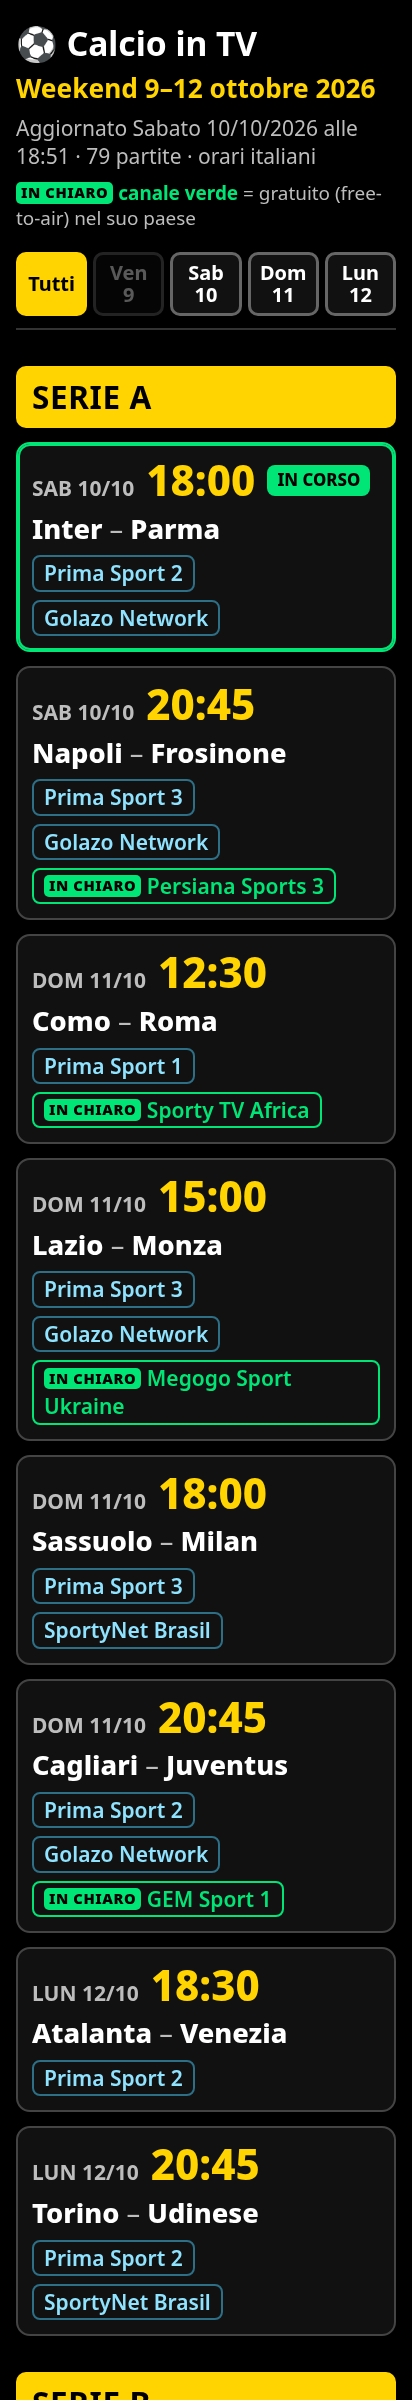
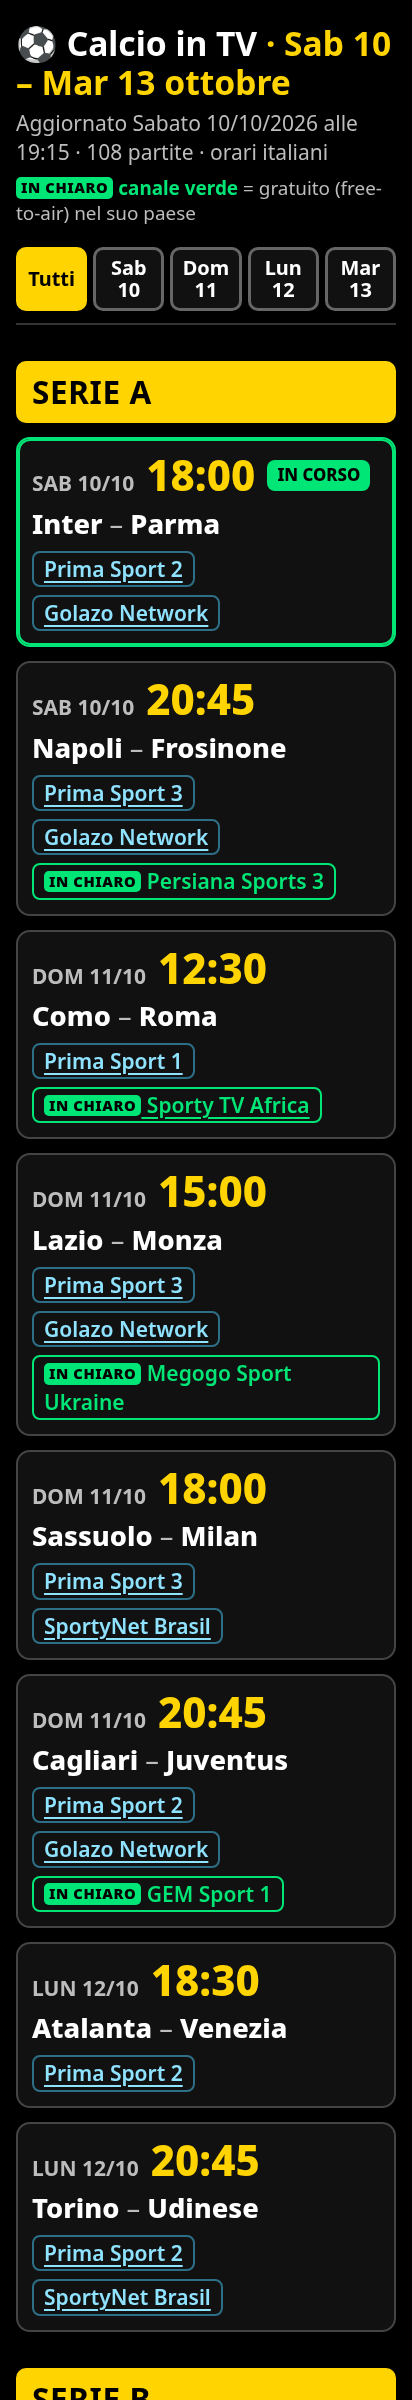
Due viste: per campionato / in ordine di orario (scelta ricordata)

Changed region(s): [[0.0291, 0.0, 0.9612, 1.0]]

diff --git a/scraper/palinsesto.py b/scraper/palinsesto.py
@@ -301,25 +301,37 @@ def genera_html(primo, ora, gruppi, falliti, senza, dove=None):
     n_partite = sum(len(g["partite"]) for g in gruppi)
 
     sezioni, usati = [], set()
-    for g in gruppi:
-        schede = []
-        for e in g["partite"]:
-            q = e["quando"]
-            notte = q.hour < 6
-            squadre = f'<span class="sq">{esc(e["casa"])}</span>'
-            if e["ospite"]:
-                squadre += f' <span class="vs">–</span> <span class="sq">{esc(e["ospite"])}</span>'
-            canali = "".join(badge(c, dove, usati) for c in e["canali"])
-            schede.append(
-                f'<li class="partita" data-ts="{e["ts"]}" data-giorno="{q:%Y-%m-%d}">'
+
+    def scheda(e, comp=None):
+        q = e["quando"]
+        notte = q.hour < 6
+        squadre = f'<span class="sq">{esc(e["casa"])}</span>'
+        if e["ospite"]:
+            squadre += f' <span class="vs">–</span> <span class="sq">{esc(e["ospite"])}</span>'
+        if comp:
+            squadre = f'<span class="comp-tag">{esc(comp)}</span>' + squadre
+        canali = "".join(badge(c, dove, usati) for c in e["canali"])
+        return (f'<li class="partita" data-ts="{e["ts"]}" data-giorno="{q:%Y-%m-%d}">'
                 f'<div class="quando"><span class="giorno">{GIORNI[q.weekday()]} {q:%d/%m}</span>'
                 f'<span class="ora">{q:%H:%M}</span>'
                 + (f'<span class="notte">notte tra {GIORNI[(q.weekday() - 1) % 7].lower()} e {GIORNI[q.weekday()].lower()}</span>' if notte else '') +
                 '<span class="stato" aria-live="polite"></span></div>'
                 f'<div class="squadre">{squadre}</div>'
                 f'<ul class="canali" aria-label="Canali">{canali}</ul></li>')
+
+    # vista "per campionato"
+    for g in gruppi:
         sezioni.append(f'<section class="comp"><h2>{esc(g["nome"])}</h2>'
-                       f'<ol class="partite">{"".join(schede)}</ol></section>')
+                       f'<ol class="partite">{"".join(scheda(e) for e in g["partite"])}</ol></section>')
+    # vista "in ordine di orario": tutte le partite per ora d'inizio, con separatori per giorno
+    tutte = sorted(((e, g["nome"]) for g in gruppi for e in g["partite"]), key=lambda x: (x[0]["ts"], x[1], x[0]["casa"]))
+    orario = []
+    for d in giorni:
+        del_giorno = [x for x in tutte if x[0]["quando"].date() == d]
+        if del_giorno:
+            orario.append(f'<section class="giorno-sez" data-giorno="{d:%Y-%m-%d}">'
+                          f'<h2 class="giorno-h">{GIORNI_LUNGHI[d.weekday()].upper()} {d.day} {MESI[d.month - 1].upper()}</h2>'
+                          f'<ol class="partite">{"".join(scheda(e, c) for e, c in del_giorno)}</ol></section>')
     if not gruppi:
         sezioni.append('<p class="vuoto">Nessuna partita trovata in questi giorni.</p>')
 
@@ -343,7 +355,7 @@ def genera_html(primo, ora, gruppi, falliti, senza, dove=None):
 
     return TEMPLATE.format(
         periodo=esc(periodo(primo)), aggiornato=esc(aggiornato), n=n_partite,
-        bottoni=bottoni, sezioni="\n".join(sezioni), avvisi=avvisi, note=note,
+        bottoni=bottoni, sezioni="\n".join(sezioni), orario="\n".join(orario), avvisi=avvisi, note=note,
         dove=sezione_dove(dove, usati))
 
 
@@ -423,6 +435,16 @@ TEMPLATE = """<!doctype html>
                background:#111; color:#fff; border:3px solid #666; cursor:pointer; flex:1 1 auto; }}
   nav.filtri button[aria-pressed="true"] {{ background:var(--giallo); color:#000; border-color:var(--giallo); }}
   nav.filtri button:disabled {{ opacity:.35; cursor:default; }}
+  nav.viste {{ max-width:1000px; margin:4px auto 0; display:grid; grid-template-columns:1fr 1fr; gap:10px; }}
+  nav.viste button {{ font:inherit; font-size:1.05rem; font-weight:900; letter-spacing:.02em; min-height:72px; padding:8px 10px;
+               border-radius:14px; background:#111; color:#fff; border:3px solid #888; cursor:pointer; line-height:1.15; }}
+  nav.viste button[aria-pressed="true"] {{ background:#fff; color:#000; border-color:#fff; box-shadow:0 0 0 3px var(--giallo); }}
+  nav.viste button[aria-pressed="true"]::before {{ content:"✓ "; }}
+  nav.viste button:focus-visible {{ outline:4px solid var(--azzurro); outline-offset:3px; }}
+  h2.giorno-h {{ background:#fff; color:#000; }}
+  section.giorno-sez {{ margin-top:36px; }}
+  .comp-tag {{ display:block; width:max-content; max-width:100%; background:var(--giallo); color:#000; font-size:.8rem; font-weight:900;
+               padding:2px 10px; border-radius:7px; margin-bottom:6px; letter-spacing:.02em; overflow-wrap:anywhere; }}
   nav.filtri button:focus-visible {{ outline:4px solid var(--azzurro); outline-offset:2px; }}
   section.comp {{ margin-top:36px; }}
   h2 {{ font-size:1.5rem; color:#000; background:var(--giallo); padding:10px 16px; border-radius:10px; margin:0 0 14px;
@@ -488,9 +510,18 @@ TEMPLATE = """<!doctype html>
   <p class="agg">Aggiornato {aggiornato} · {n} partite · orari italiani</p>
   <p class="legenda"><span class="tag">IN CHIARO</span> <span style="color:var(--verde);font-weight:700">canale verde</span> = gratuito (free-to-air) nel suo paese</p>
 </header>
+<nav class="viste" aria-label="Come ordinare le partite">
+  <button type="button" data-vista="campionato" aria-pressed="true">PER CAMPIONATO</button>
+  <button type="button" data-vista="orario" aria-pressed="false">IN ORDINE DI ORARIO</button>
+</nav>
 <nav class="filtri" aria-label="Filtra per giorno">{bottoni}</nav>
 <main>
+<div id="vista-campionato" class="vista">
 {sezioni}
+</div>
+<div id="vista-orario" class="vista" hidden>
+{orario}
+</div>
 {avvisi}
 {dove}
 </main>
@@ -507,12 +538,26 @@ TEMPLATE = """<!doctype html>
   function filtra(f) {{
     bottoni.forEach(function (b) {{ b.setAttribute('aria-pressed', b.dataset.filtro === f ? 'true' : 'false'); }});
     partite.forEach(function (p) {{ p.hidden = !(f === 'tutti' || p.dataset.giorno === f); }});
-    [].forEach.call(document.querySelectorAll('section.comp'), function (s) {{
+    [].forEach.call(document.querySelectorAll('section.comp, section.giorno-sez'), function (s) {{
       s.hidden = !s.querySelector('li.partita:not([hidden])');
     }});
     try {{ sessionStorage.setItem('filtro', f); }} catch (e) {{}}
   }}
   bottoni.forEach(function (b) {{ b.addEventListener('click', function () {{ filtra(b.dataset.filtro); }}); }});
+  // due viste: per campionato / in ordine di orario (scelta ricordata nel browser)
+  var tastiVista = [].slice.call(document.querySelectorAll('nav.viste button'));
+  function vista(v) {{
+    if (v !== 'orario') v = 'campionato';
+    tastiVista.forEach(function (b) {{ b.setAttribute('aria-pressed', b.dataset.vista === v ? 'true' : 'false'); }});
+    document.getElementById('vista-campionato').hidden = v !== 'campionato';
+    document.getElementById('vista-orario').hidden = v !== 'orario';
+    try {{ localStorage.setItem('vista', v); }} catch (e) {{}}
+  }}
+  tastiVista.forEach(function (b) {{ b.addEventListener('click', function () {{ vista(b.dataset.vista); }}); }});
+  var daUrl = /[?&]vista=(orario|campionato)/.exec(location.search);  // es. ...?vista=orario
+  var scelta = daUrl ? daUrl[1] : null;
+  if (!scelta) {{ try {{ scelta = localStorage.getItem('vista'); }} catch (e) {{}} }}
+  vista(scelta);
   // stato: in corso (fino a 2 ore dall'inizio), tra poco (entro 1 ora), già giocata
   function stato() {{
     var ora = Date.now() / 1000;

diff --git a/tests/test_logica.py b/tests/test_logica.py
@@ -74,7 +74,7 @@ def test_fixture():
     psg = [e for g in gruppi for e in g["partite"] if "PSG" in e["titolo"]][0]
     assert [c["nome"] for c in psg["canali"]] == ["TV5 Monde"]
     html = p.genera_html(v, dt.datetime(2026, 10, 9, 12, 47, tzinfo=p.ROMA), gruppi, ["Canale X (HTTP 404)"], [])
-    assert "non scaricati" in html and "Canale X" in html and html.count('class="partita"') == 64
+    assert "non scaricati" in html and "Canale X" in html and html.count('class="partita"') == 2 * 64
     assert not any("dazn" in c["nome"].lower() for g in gruppi for e in g["partite"] for c in e["canali"])
     return n
 
@@ -215,7 +215,14 @@ def test_unione():
     assert nomi.index("SERIE A") == 0 and nomi.count("PREMIER LEAGUE") == 1 and nomi.count("SERIE A") == 1
     assert not any("dazn" in c["nome"].lower() for e in tutte.values() for c in e["canali"])
     html = p.genera_html(v, dt.datetime(2026, 10, 10, 18, 30, tzinfo=p.ROMA), gruppi, falliti, senza)
-    assert html.count('class="partita"') == st["totale"] and html.count('<li class="fta">') > 50
+    assert html.count('class="partita"') == 2 * st["totale"] and html.count('<li class="fta">') > 50
+    # vista "in ordine di orario": stesse partite, ordinate per ora, con separatori per giorno ed etichetta campionato
+    import re as _re
+    orario = html[html.index('id="vista-orario"'):html.index('</main>')]
+    ts = [int(x) for x in _re.findall(r'data-ts="(\d+)"', orario)]
+    assert len(ts) == st["totale"] and ts == sorted(ts)
+    assert _re.findall(r'class="giorno-h">([^<]+)', orario) == ["VENERDÌ 9 OTTOBRE", "SABATO 10 OTTOBRE", "DOMENICA 11 OTTOBRE", "LUNEDÌ 12 OTTOBRE"]
+    assert orario.count('class="comp-tag"') == st["totale"] and 'data-vista="orario"' in html and "localStorage" in html
     return st
 
 
